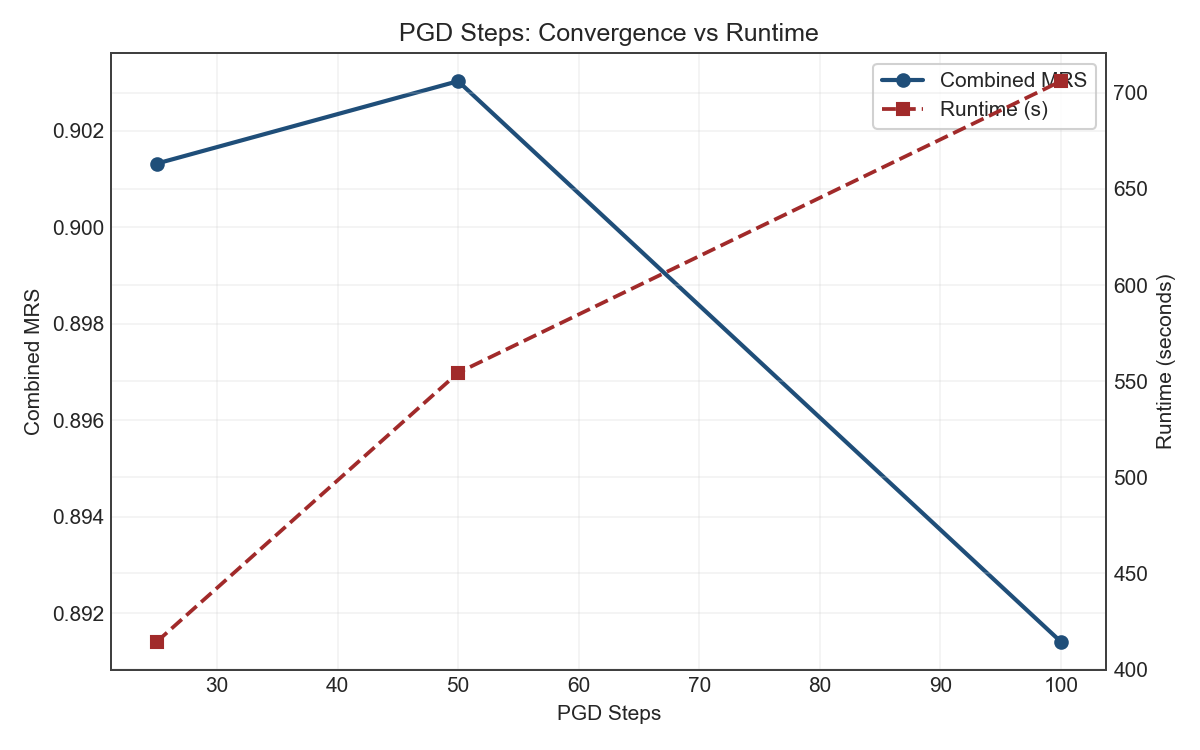
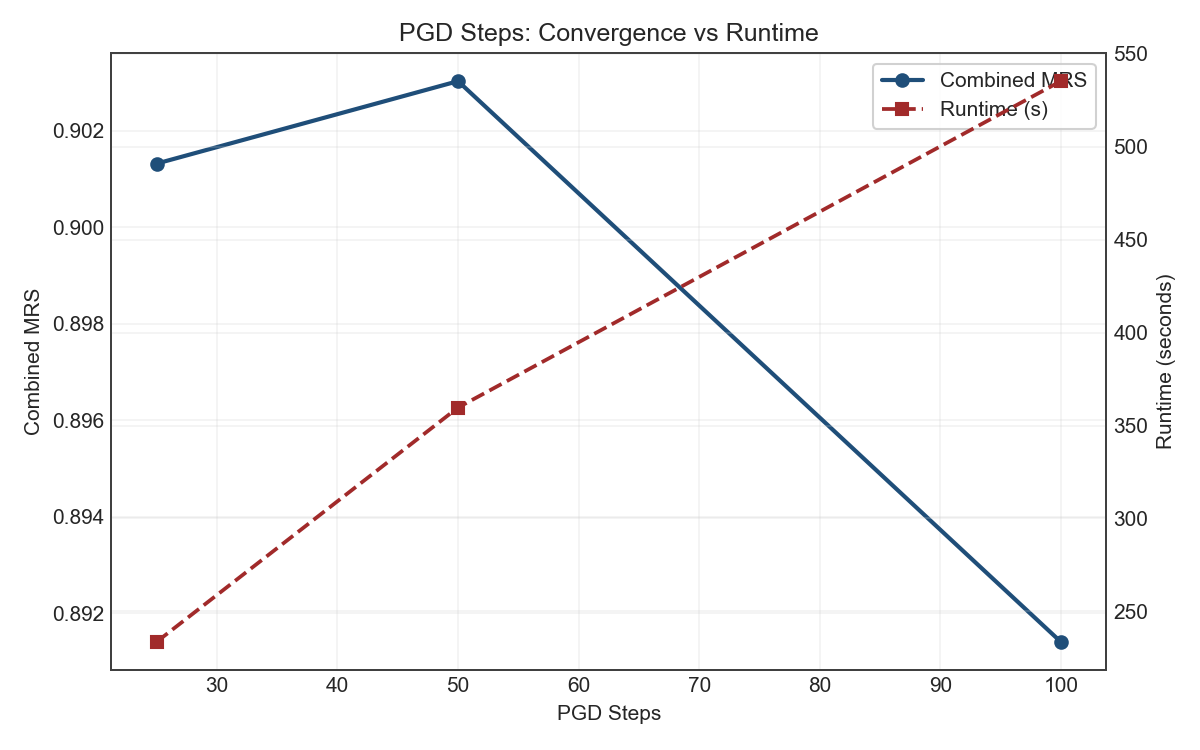
refactor: clean up code formatting and improve readability across multiple files

diff --git a/uacloak/interface.py b/uacloak/interface.py
@@ -32,9 +32,7 @@ from uacloak.pipeline import (
 )
 from uacloak.project import PROJECT_NAME
 
-# ---------------------------------------------------------------------------
 # CSS — dark-on-light theme with explicit text colours for HF Spaces compat
-# ---------------------------------------------------------------------------
 
 APP_CSS = """
 /* ── Google Font ─────────────────────────────────────────────── */
@@ -196,9 +194,7 @@ APP_THEME = gr.themes.Base(
 )
 
 
-# ---------------------------------------------------------------------------
 # Score formatting helpers
-# ---------------------------------------------------------------------------
 
 
 def _pct(similarity: float) -> str:
@@ -241,9 +237,7 @@ def _coerce_image_input(image: Any, field_name: str) -> Image.Image:
             candidate = image.get(key)
             if isinstance(candidate, str) and candidate:
                 return _load_image_from_path(candidate, field_name)
-        raise UACloakError(
-            f"{field_name} payload is missing a usable file path."
-        )
+        raise UACloakError(f"{field_name} payload is missing a usable file path.")
 
     if isinstance(image, np.ndarray):
         array = np.asarray(image)
@@ -258,18 +252,12 @@ def _coerce_image_input(image: Any, field_name: str) -> Image.Image:
             mode = "RGB" if array.shape[2] == 3 else "RGBA"
             return Image.fromarray(array, mode=mode).convert("RGB")
 
-        raise UACloakError(
-            f"{field_name} has unsupported array shape: {array.shape}."
-        )
+        raise UACloakError(f"{field_name} has unsupported array shape: {array.shape}.")
 
-    raise UACloakError(
-        f"{field_name} has unsupported type: {type(image).__name__}."
-    )
+    raise UACloakError(f"{field_name} has unsupported type: {type(image).__name__}.")
 
 
-# ---------------------------------------------------------------------------
 # Core processing — generator so Gradio streams progress (Step 28)
-# ---------------------------------------------------------------------------
 
 
 def generate_cloak(image, epsilon, num_steps, alpha_fraction):
@@ -487,9 +475,7 @@ def generate_cloak(image, epsilon, num_steps, alpha_fraction):
     )
 
 
-# ---------------------------------------------------------------------------
 # Compare-images tab (kept for technical reviewers)
-# ---------------------------------------------------------------------------
 
 
 def compare_faces(image_a, image_b):
@@ -553,9 +539,7 @@ def compare_faces(image_a, image_b):
         raise gr.Error(f"Unexpected comparison error: {exc}") from exc
 
 
-# ---------------------------------------------------------------------------
 # Build the Gradio app
-# ---------------------------------------------------------------------------
 
 
 def build_demo() -> gr.Blocks:  # noqa: C901

diff --git a/uacloak/visualize.py b/uacloak/visualize.py
@@ -111,7 +111,11 @@ def plot_result_grid(
         oracle_clean = float(_row_value(row, "oracle_clean_similarity", math.nan))
         oracle_pgd = float(_row_value(row, "oracle_similarity_pgd", math.nan))
         ssim_score = float(_row_value(row, "ssim_score", math.nan))
-        drop = oracle_clean - oracle_pgd if not (math.isnan(oracle_clean) or math.isnan(oracle_pgd)) else math.nan
+        drop = (
+            oracle_clean - oracle_pgd
+            if not (math.isnan(oracle_clean) or math.isnan(oracle_pgd))
+            else math.nan
+        )
 
         left_ax = axes[index, 0]
         right_ax = axes[index, 1]
@@ -152,8 +156,12 @@ def plot_embedding_pca(
     if num_samples == 0:
         return
 
-    x_orig = torch.stack([embed.view(-1).float() for embed in original_embeddings[:num_samples]])
-    x_cloak = torch.stack([embed.view(-1).float() for embed in cloaked_embeddings[:num_samples]])
+    x_orig = torch.stack(
+        [embed.view(-1).float() for embed in original_embeddings[:num_samples]]
+    )
+    x_cloak = torch.stack(
+        [embed.view(-1).float() for embed in cloaked_embeddings[:num_samples]]
+    )
 
     x_all = torch.cat([x_orig, x_cloak], dim=0)
     x_all_centered = x_all - x_all.mean(dim=0, keepdim=True)

diff --git a/tests/test_visualize.py b/tests/test_visualize.py
@@ -14,7 +14,7 @@ def test_plot_embedding_pca_generates_file(tmp_path: Path) -> None:
     # 512D Embeddings mocked
     origs = [torch.randn(512) for _ in range(5)]
     clks = [torch.randn(512) for _ in range(5)]
-    
+
     out = tmp_path / "pca.png"
     plot_embedding_pca(origs, clks, out)
     assert out.exists()
@@ -24,7 +24,7 @@ def test_plot_transferability_scatter_generates_file(tmp_path: Path) -> None:
     # Drops mock
     s_drops = [0.1, 0.4, 0.6, 0.8, 0.9]
     o_drops = [0.05, 0.3, 0.5, 0.85, 0.85]
-    
+
     out = tmp_path / "scatter.png"
     plot_transferability_scatter(s_drops, o_drops, out)
     assert out.exists()

diff --git a/uacloak/evaluation.py b/uacloak/evaluation.py
@@ -114,9 +114,7 @@ def load_manifest(manifest_path: Path) -> list[BenchmarkSample]:
         missing = required.difference(fieldnames)
         if missing:
             missing_cols = ", ".join(sorted(missing))
-            raise UACloakError(
-                f"Manifest is missing required columns: {missing_cols}"
-            )
+            raise UACloakError(f"Manifest is missing required columns: {missing_cols}")
 
         rows: list[BenchmarkSample] = []
         for row in reader:

diff --git a/uacloak/benchmarking.py b/uacloak/benchmarking.py
@@ -1137,9 +1137,7 @@ def main(argv: Sequence[str] | None = None) -> int:
     if args.max_images > 0:
         samples = samples[: args.max_images]
 
-    rows = run_benchmark_suite(
-        samples, success_threshold=float(args.success_threshold)
-    )
+    rows = run_benchmark_suite(samples, success_threshold=float(args.success_threshold))
     summary = summarize_benchmark(rows, success_threshold=float(args.success_threshold))
 
     write_benchmark_metrics_csv(rows, output_csv)

diff --git a/app.py b/app.py
@@ -27,4 +27,3 @@ if __name__ == "__main__":
         )
 
     demo.launch(**launch_kwargs)
-

diff --git a/results/ablations/ablation_report.md b/results/ablations/ablation_report.md
@@ -8,9 +8,9 @@ Primary metric is MRS (mean residual similarity), defined as average post-attack
 
 | Setting | MRS Face | MRS General | Mean SSIM | Runtime (s) |
 | --- | --- | --- | --- | --- |
-| 0.01 | 0.9619 | 0.9313 | 0.9878 | 660.08 |
-| 0.03 | 0.8893 | 0.8935 | 0.9349 | 839.27 |
-| 0.05 | 0.7334 | 0.8169 | 0.8562 | 2326.58 |
+| 0.01 | 0.9619 | 0.9313 | 0.9878 | 829.95 |
+| 0.03 | 0.8893 | 0.8935 | 0.9349 | 2326.17 |
+| 0.05 | 0.7334 | 0.8169 | 0.8562 | 1167.25 |
 
 Best epsilon under SSIM constraint was 0.01, with mean SSIM 0.9878.
 This indicates the practical operating point is near the tradeoff knee where MRS is reduced without violating the imperceptibility target.
@@ -19,9 +19,9 @@ This indicates the practical operating point is near the tradeoff knee where MRS
 
 | Setting | MRS Face | MRS General | Mean SSIM | Runtime (s) |
 | --- | --- | --- | --- | --- |
-| 25 | 0.9233 | 0.8793 | 0.9556 | 414.26 |
-| 50 | 0.9139 | 0.8922 | 0.9429 | 554.32 |
-| 100 | 0.8893 | 0.8935 | 0.9349 | 706.11 |
+| 25 | 0.9233 | 0.8793 | 0.9556 | 233.60 |
+| 50 | 0.9139 | 0.8922 | 0.9429 | 359.67 |
+| 100 | 0.8893 | 0.8935 | 0.9349 | 535.30 |
 
 No step setting met the SSIM constraint on this run.
 
@@ -29,10 +29,10 @@ No step setting met the SSIM constraint on this run.
 
 | Loss Variant | MRS Face ArcFace | MRS Face CLIP-L/14 | MRS General CLIP-L/14 | Mean SSIM | Runtime (s) |
 | --- | --- | --- | --- | --- | --- |
-| clip_cosine_only | 0.9930 | 0.9649 | 0.8935 | 0.9520 | 473.43 |
-| clip_l2_only | 1.0000 | 1.0000 | 0.8910 | 0.9586 | 517.97 |
-| facenet_cosine_only | 0.8942 | 0.9240 | n/a | 0.9488 | 352.46 |
-| combined_clip_facenet | 0.8893 | 0.8715 | 0.8935 | 0.9349 | 550.17 |
+| clip_cosine_only | 0.9930 | 0.9649 | 0.8935 | 0.9520 | 502.04 |
+| clip_l2_only | 1.0000 | 1.0000 | 0.8910 | 0.9586 | 581.03 |
+| facenet_cosine_only | 0.8942 | 0.9240 | n/a | 0.9488 | 234.12 |
+| combined_clip_facenet | 0.8893 | 0.8715 | 0.8935 | 0.9349 | 598.52 |
 
 Combined CLIP plus FaceNet loss is expected to balance transferability across oracle families, while single-space losses specialize to their own geometry.
 
@@ -40,10 +40,10 @@ Combined CLIP plus FaceNet loss is expected to balance transferability across or
 
 | Norm | Epsilon | Equivalent L2 Radius | MRS Face | MRS General | Mean SSIM | Runtime (s) |
 | --- | --- | --- | --- | --- | --- | --- |
-| linf | 0.01 | 3.880 | 0.9619 | 0.9313 | 0.9878 | 627.04 |
-| linf | 0.03 | 11.639 | 0.8893 | 0.8935 | 0.9349 | 628.12 |
-| l2 | 0.01 | 3.880 | 0.9855 | 0.9668 | 0.9983 | 721.13 |
-| l2 | 0.03 | 11.639 | 0.9886 | 0.9775 | 0.9983 | 725.96 |
+| linf | 0.01 | 3.880 | 0.9619 | 0.9313 | 0.9878 | 642.86 |
+| linf | 0.03 | 11.639 | 0.8893 | 0.8935 | 0.9349 | 659.98 |
+| l2 | 0.01 | 3.880 | 0.9855 | 0.9668 | 0.9983 | 785.36 |
+| l2 | 0.03 | 11.639 | 0.9886 | 0.9775 | 0.9983 | 4934.21 |
 
 At equivalent budgets, L2 projection can produce smoother perturbation structure while L-infinity offers stricter per-pixel bounds; the table shows which retains SSIM > 0.98 most reliably.
 
